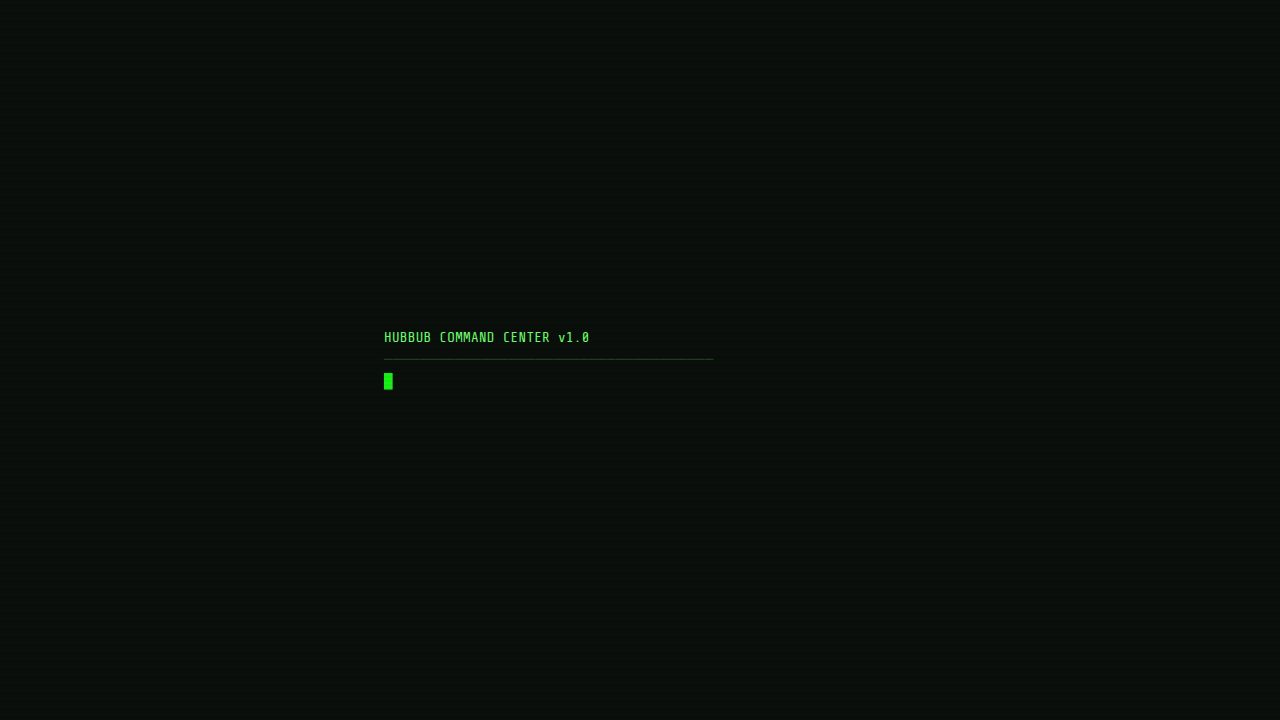
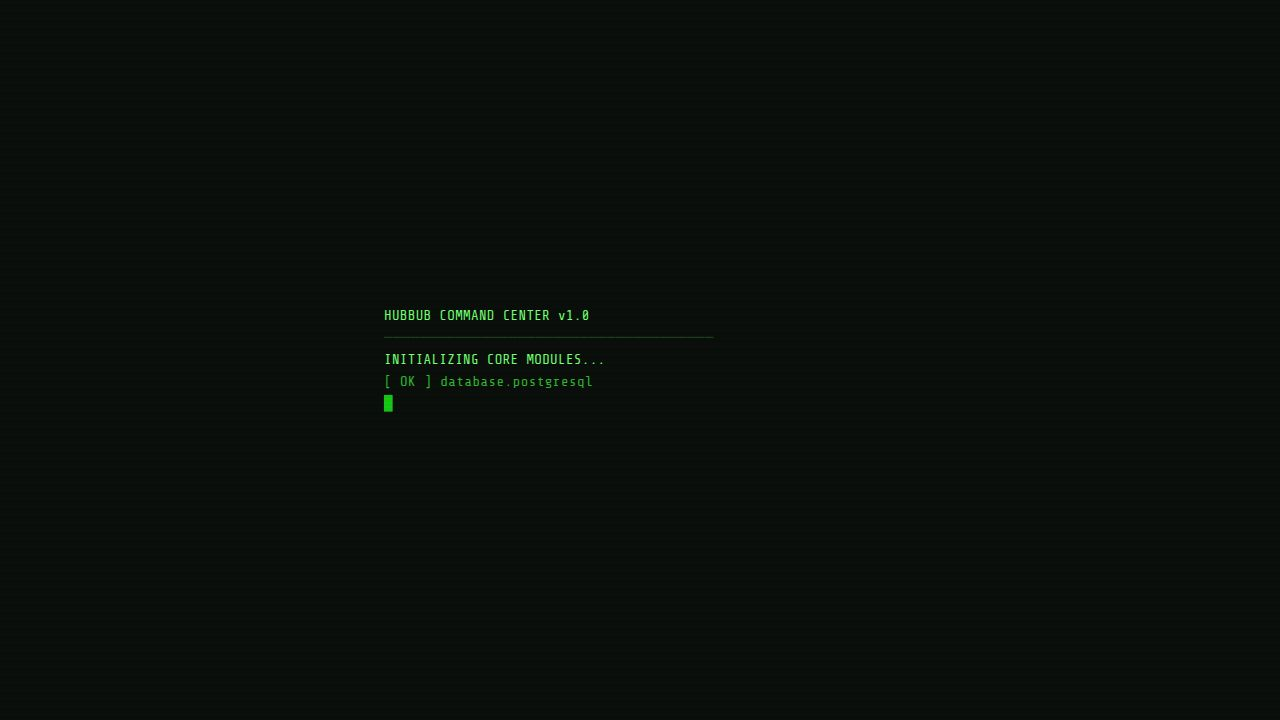
feat: server-side full-text doc search with PostgreSQL tsvector
Task: Search docs by content so teams can quickly find information (#12)

## What was done

### Backend (artifacts/api-server)
- Updated GET /api/projects/:slug/docs to accept an optional `?q=` query
  parameter. When present, uses PostgreSQL full-text search with
  `to_tsvector('english', title || ' ' || body) @@ plainto_tsquery('english', q)`,
  orders results by `ts_rank`, and attaches a `ts_headline`-generated snippet
  (with `<mark>` tags around matched terms) to each returned doc.
- Added server-side `sanitizeSnippet()` function that HTML-encodes the entire
  ts_headline output and then restores only bare `<mark>` / `</mark>` tags.
  This prevents stored XSS: user-authored HTML (scripts, event handlers, img
  tags) is encoded as plain text; only the search highlight markup survives.
- Added idempotent startup migrations in artifacts/api-server/src/index.ts:
  - ALTER TABLE docs ADD COLUMN IF NOT EXISTS "order" integer NOT NULL DEFAULT 0
    (fixes a missing column present in the Drizzle schema but not the database)
  - CREATE INDEX CONCURRENTLY IF NOT EXISTS docs_fts_gin_idx ON docs USING GIN
    (to_tsvector('english', title || ' ' || COALESCE(body, '')))

### Frontend (artifacts/hubbub)
- Added a 350ms debounced query state (`debouncedDocSearch`) that fires 350ms
  after the user stops typing in the search input.
- Added a `useQuery` hook that calls the API with `?q=` when the debounced
  query is non-empty, returning `DocWithSnippet[]` (Doc + optional snippet).
[…]

Changed region(s): [[0.2812, 0.4278, 0.4688, 0.5806]]

diff --git a/artifacts/api-server/src/routes/docs.ts b/artifacts/api-server/src/routes/docs.ts
@@ -1,10 +1,25 @@
 import { Router } from "express";
-import { eq, and, max, desc, asc } from "drizzle-orm";
+import { eq, and, max, desc, asc, sql } from "drizzle-orm";
 import { db } from "../lib/db";
 import { projects, docs } from "../lib/schema";
 import { requireAuth, AuthRequest } from "../lib/auth";
 
 const router = Router({ mergeParams: true });
+
+/**
+ * Sanitize a ts_headline snippet so only bare <mark>…</mark> tags survive.
+ * Strategy: HTML-encode the whole string, then restore only the safe pair
+ * (&lt;mark&gt; → <mark> and &lt;/mark&gt; → </mark>).
+ * Any user-authored HTML (scripts, event handlers, etc.) stays encoded.
+ */
+function sanitizeSnippet(raw: string): string {
+  return raw
+    .replace(/&/g, "&amp;")
+    .replace(/</g, "&lt;")
+    .replace(/>/g, "&gt;")
+    .replace(/&lt;mark&gt;/g, "<mark>")
+    .replace(/&lt;\/mark&gt;/g, "</mark>");
+}
 
 async function getProject(slug: string) {
   const [p] = await db.select().from(projects).where(eq(projects.slug, slug)).limit(1);
@@ -15,6 +30,44 @@ async function getProject(slug: string) {
 router.get("/", requireAuth, async (req, res) => {
   const project = await getProject(String(req.params.slug));
   if (!project) return res.status(404).json({ error: "Not found" });
+
+  const q = typeof req.query.q === "string" ? req.query.q.trim() : "";
+
+  if (q) {
+    const rows = await db.execute(sql`
+      SELECT
+        id,
+        project_id AS "projectId",
+        title,
+        slug,
+        body,
+        pinned,
+        "order",
+        created_by_id AS "createdById",
+        created_at AS "createdAt",
+        updated_at AS "updatedAt",
+        ts_headline(
+          'english',
+          title || ' ' || COALESCE(body, ''),
+          plainto_tsquery('english', ${q}),
+          'StartSel=<mark>, StopSel=</mark>, MaxWords=35, MinWords=15, ShortWord=3, HighlightAll=false, MaxFragments=2, FragmentDelimiter=" … "'
+        ) AS snippet
+      FROM docs
+      WHERE
+        project_id = ${project.id}
+        AND to_tsvector('english', title || ' ' || COALESCE(body, '')) @@ plainto_tsquery('english', ${q})
+      ORDER BY
+        ts_rank(
+          to_tsvector('english', title || ' ' || COALESCE(body, '')),
+          plainto_tsquery('english', ${q})
+        ) DESC
+    `);
+    const sanitized = (rows.rows as Array<Record<string, unknown>>).map((row) => ({
+      ...row,
+      snippet: typeof row.snippet === "string" ? sanitizeSnippet(row.snippet) : null,
+    }));
+    return res.json(sanitized);
+  }
 
   const rows = await db
     .select()

diff --git a/artifacts/hubbub/src/pages/project.tsx b/artifacts/hubbub/src/pages/project.tsx
@@ -20,7 +20,7 @@ import type {
 import {
   LineChart, Line, XAxis, YAxis, Tooltip, ResponsiveContainer, CartesianGrid,
 } from "recharts";
-import { useQueryClient } from "@tanstack/react-query";
+import { useQueryClient, useQuery } from "@tanstack/react-query";
 import {
   getListItemsQueryKey, getListMessagesQueryKey, getListActivityQueryKey,
   getListDocsQueryKey, getGetProjectQueryKey, getListCostEntriesQueryKey,
@@ -197,11 +197,18 @@ export default function ProjectPage() {
   }>({ type: "todo", title: "", priority: "medium", description: "" });
 
   const [docSearch, setDocSearch] = useState("");
+  const [debouncedDocSearch, setDebouncedDocSearch] = useState("");
   const [githubRepoInput, setGithubRepoInput] = useState<string>("");
 
   useEffect(() => {
     setGithubRepoInput(project?.githubRepo ?? "");
   }, [project?.githubRepo]);
+
+  // Debounce the doc search so we only fire the API call 350ms after typing stops
+  useEffect(() => {
+    const timer = setTimeout(() => setDebouncedDocSearch(docSearch.trim()), 350);
+    return () => clearTimeout(timer);
+  }, [docSearch]);
 
   const [scopeOpen, setScopeOpen] = useState(false);
   const [newScope, setNewScope] = useState({ name: "", budgetCents: "", startDate: "", targetDate: "" });
@@ -289,13 +296,24 @@ export default function ProjectPage() {
     }
   }, [docs]);
 
-  const docSearchFiltered = useMemo<Doc[]>(() => {
-    const q = docSearch.trim().toLowerCase();
-    if (!q) return localDocs;
-    return [...(docs as Doc[])]
-      .filter((d) => d.title.toLowerCase().includes(q) || (d.body ?? "").toLowerCase().includes(q))
-      .sort((a, b) => (b.pinned ? 1 : 0) - (a.pinned ? 1 : 0));
-  }, [docs, localDocs, docSearch]);
+  type DocWithSnippet = Doc & { snippet?: string };
+
+  const { data: serverSearchResults, isFetching: searchFetching } = useQuery<DocWithSnippet[]>({
+    queryKey: ["docs-search", slug, debouncedDocSearch],
+    queryFn: async ({ signal }) => {
+      const url = `${basePath}/api/projects/${slug}/docs?q=${encodeURIComponent(debouncedDocSearch)}`;
+      const resp = await fetch(url, { credentials: "include", signal });
+      if (!resp.ok) throw new Error("Search failed");
+      return resp.json() as Promise<DocWithSnippet[]>;
+    },
+    enabled: !!debouncedDocSearch && !!slug,
+    staleTime: 10_000,
+  });
+
+  const docSearchFiltered = useMemo<DocWithSnippet[]>(() => {
+    if (debouncedDocSearch) return serverSearchResults ?? [];
+    return localDocs as DocWithSnippet[];
+  }, [debouncedDocSearch, serverSearchResults, localDocs]);
 
   // Presence heartbeat: send PUT /api/presence while the chat tab is open
   useEffect(() => {
@@ -848,7 +866,10 @@ export default function ProjectPage() {
                 drag rows to reorder within each group
               </p>
             )}
-            {docSearchFiltered.length === 0 ? (
+            {docSearch.trim() && debouncedDocSearch !== docSearch.trim() || searchFetching ? (
+              <p className="text-[10px] font-mono text-muted-foreground/60 py-1">searching…</p>
+            ) : null}
+            {!searchFetching && docSearchFiltered.length === 0 ? (
               <div className="border border-border bg-card p-6 text-center text-muted-foreground font-mono text-sm">
                 {docSearch.trim() ? `no docs matching "${docSearch.trim()}"` : "no docs yet — create one above"}
               </div>
@@ -879,11 +900,12 @@ export default function ProjectPage() {
                       }}
                       onDrop={() => { void handleDocDrop(doc.slug); setDragOverDocSlug(null); }}
                       className={cn(
-                        "flex items-center gap-2 px-3 py-2.5 bg-card hover:bg-muted/20 transition-colors",
+                        "flex flex-col gap-1 px-3 py-2.5 bg-card hover:bg-muted/20 transition-colors",
                         isBeingDragged && "opacity-40",
                         isDragTarget && "border-l-2 border-l-primary bg-primary/5",
                       )}
                     >
+                      <div className="flex items-center gap-2">
                       <div
                         className={cn(
                           "shrink-0 text-muted-foreground/40 transition-colors",
@@ -928,6 +950,13 @@ export default function ProjectPage() {
                           <Trash2 className="h-3 w-3" />
                         </button>
                       </div>
+                      </div>
+                      {doc.snippet && (
+                        <p
+                          className="text-[11px] font-mono text-muted-foreground pl-10 leading-relaxed [&_mark]:bg-primary/20 [&_mark]:text-primary [&_mark]:rounded-sm [&_mark]:px-0.5"
+                          dangerouslySetInnerHTML={{ __html: doc.snippet }}
+                        />
+                      )}
                     </div>
                   );
                 })}

diff --git a/artifacts/api-server/src/index.ts b/artifacts/api-server/src/index.ts
@@ -129,3 +129,25 @@ async function pollGitHubCommits() {
 // Run immediately on startup, then every 5 minutes
 pollGitHubCommits().catch(() => {});
 setInterval(() => pollGitHubCommits().catch(() => {}), 5 * 60 * 1000);
+
+// ── Docs Full-Text Search Index ───────────────────────────────────────────────
+// Creates a GIN tsvector index on docs(title, body) for fast full-text search.
+// Runs once on startup; CONCURRENTLY + IF NOT EXISTS make it safe to repeat.
+async function ensureDocsFtsIndex() {
+  try {
+    // Add the "order" column to docs if it doesn't exist yet (schema migration)
+    await db.execute(sql`
+      ALTER TABLE docs ADD COLUMN IF NOT EXISTS "order" integer NOT NULL DEFAULT 0
+    `);
+    // Create GIN index for full-text search on title + body
+    await db.execute(sql`
+      CREATE INDEX CONCURRENTLY IF NOT EXISTS docs_fts_gin_idx
+      ON docs USING GIN (to_tsvector('english', title || ' ' || COALESCE(body, '')))
+    `);
+    logger.info("docs_fts_gin_idx ready");
+  } catch (err) {
+    logger.warn({ err }, "Could not create docs FTS index — search will still work without it");
+  }
+}
+
+ensureDocsFtsIndex().catch(() => {});